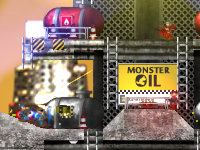
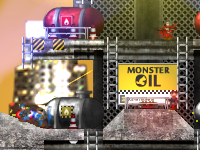
* Moray Towers: Munitionsspawns in der Mitte zur neuen, unteren Ebene verschoben.

Changed region(s): [[0.27, 0.6933, 0.45, 0.88]]

diff --git a/ModernCombatFINALTRY.c4f/CMC_MorayTowers.c4s/Script.c b/ModernCombatFINALTRY.c4f/CMC_MorayTowers.c4s/Script.c
@@ -365,12 +365,12 @@ func CreateEquipment()
 
   //Kugeln
   PlaceSpawnpoint(ABOX, 1260, 715);
-  PlaceSpawnpoint(ABOX, 2130, 1165);
+  PlaceSpawnpoint(ABOX, 2130, 1215);
   PlaceSpawnpoint(ABOX, 3170, 715);
 
   //Gewehrgranaten
   PlaceSpawnpoint(GBOX, 1480, 885);
-  PlaceSpawnpoint(GBOX, 2300, 1165);
+  PlaceSpawnpoint(GBOX, 2300, 1215);
   PlaceSpawnpoint(GBOX, 2950, 885);
 
   //Raketen
